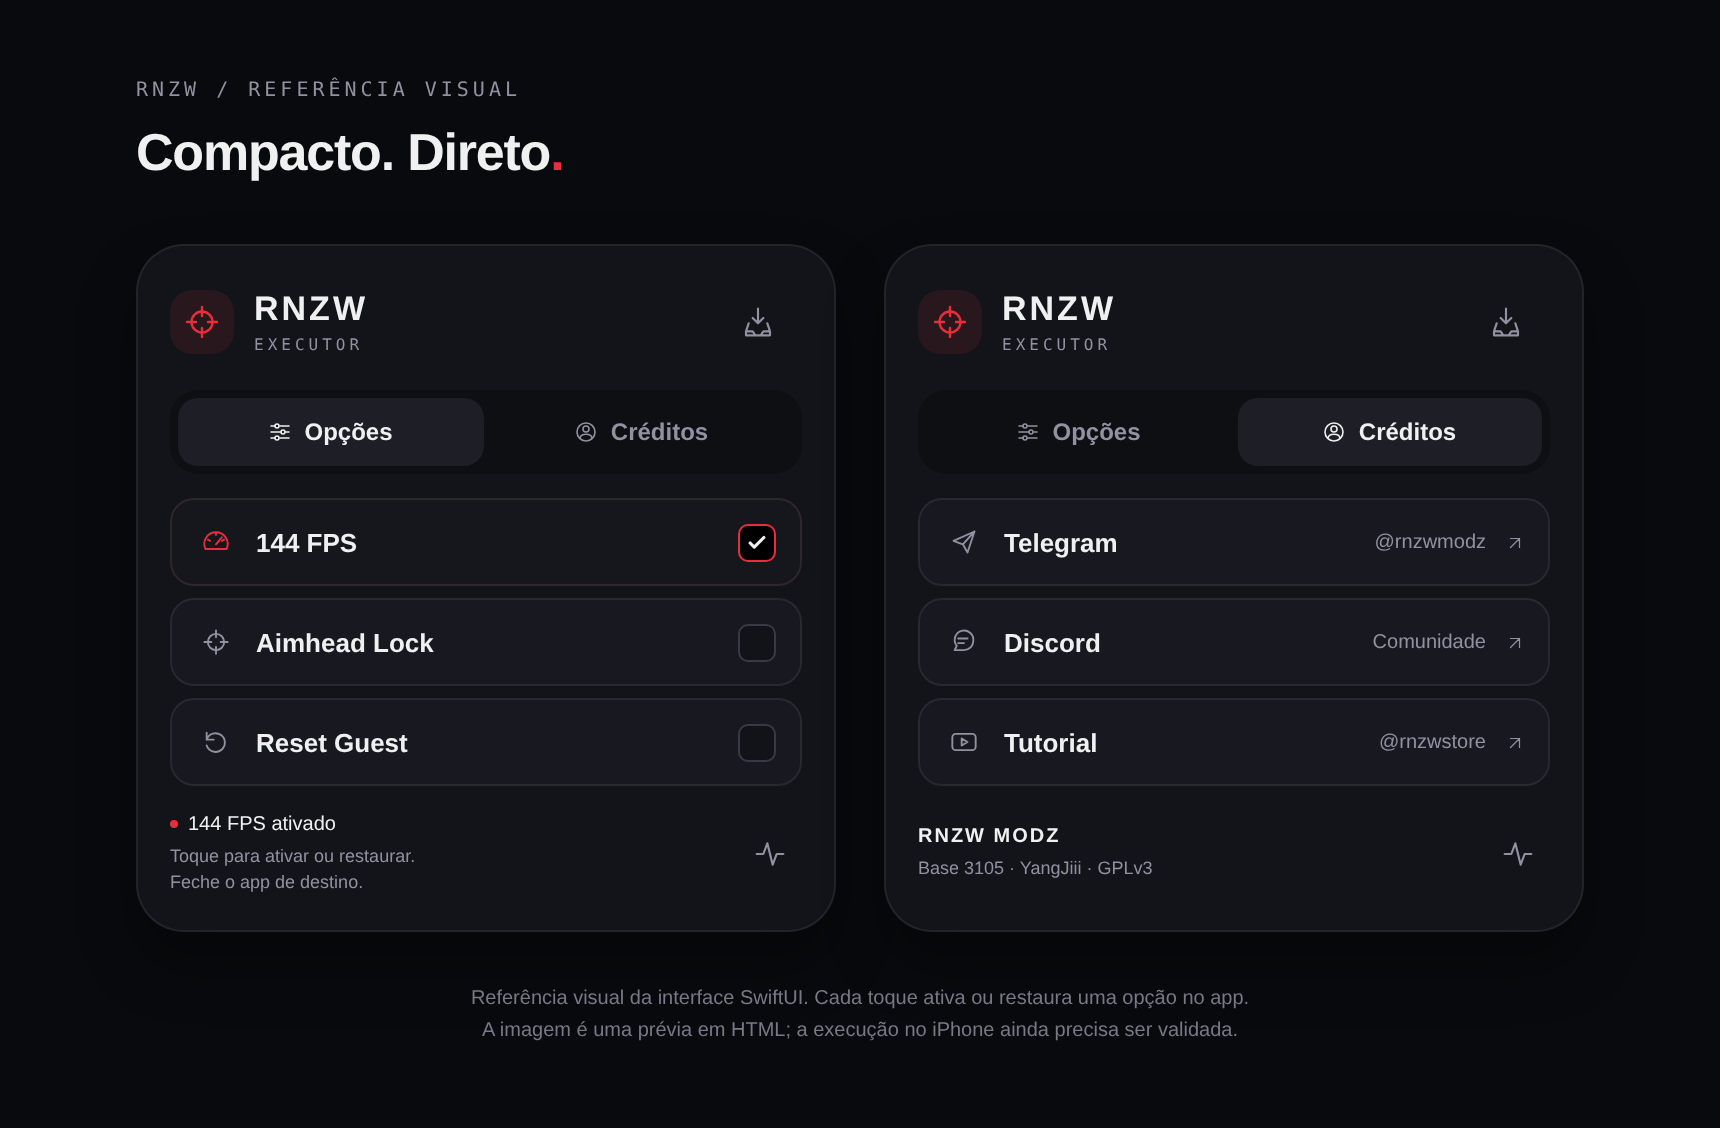
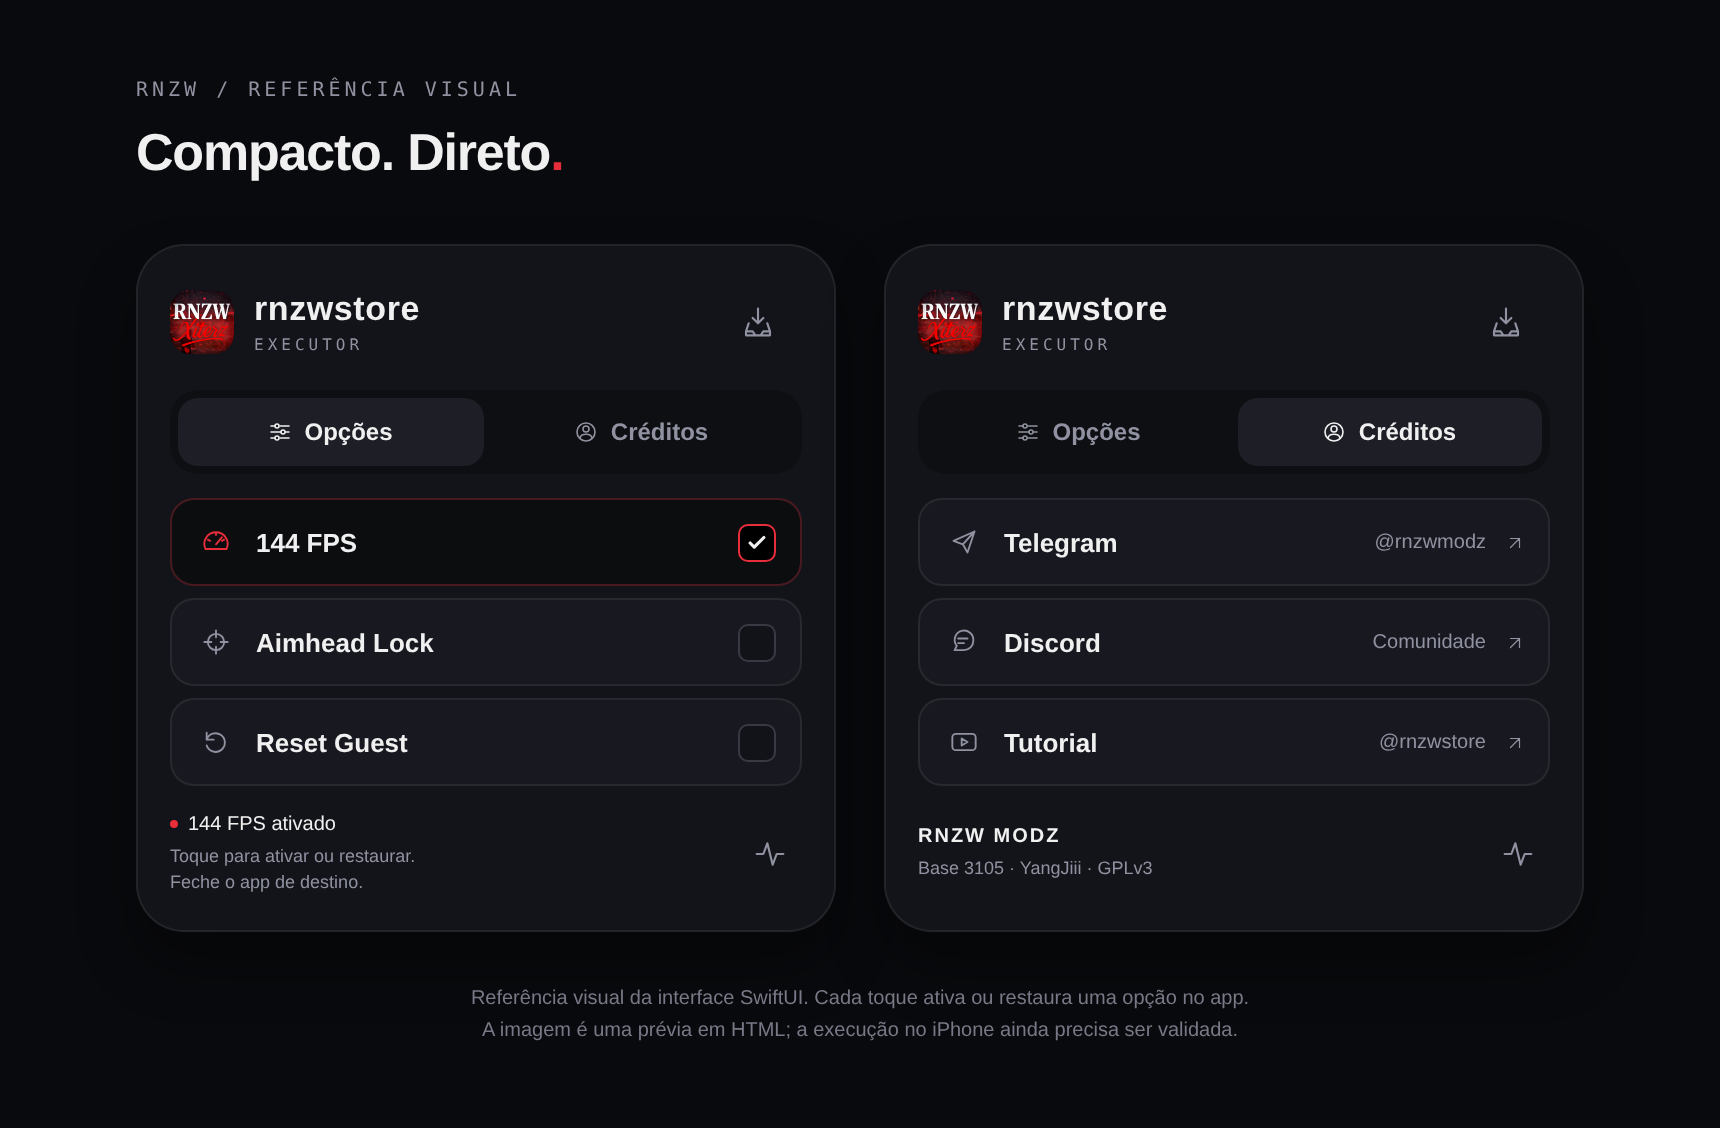
Document rnzwstore branding and successful build 9

Changed region(s): [[0.5238, 0.2482, 0.6779, 0.3103], [0.0924, 0.2482, 0.2465, 0.3103]]

diff --git a/docs/RNZW_PANEL.md b/docs/RNZW_PANEL.md
@@ -70,7 +70,7 @@ Para compilar em um Mac local, rode `bash scripts/build-ipa.sh`. O script verifi
 
 O IPA gerado dessa forma não está assinado. Para instalar e utilizar as funções da base, ainda é necessária uma assinatura compatível com os requisitos originais do 3105. Certificados, perfis e senhas não fazem parte do repositório nem dos artefatos.
 
-Build 8 concluído: [execução #2](https://github.com/rnzwconta9-a11y/xiter-gratis-psico/actions/runs/39026391287). Artefato: **RNZW-unsigned-IPA** . Faça login no GitHub para baixar o ZIP do artefato e extrair o IPA.
+Build 9 concluído: [execução #3](https://github.com/rnzwconta9-a11y/xiter-gratis-psico/actions/runs/39028660684). Artefato: **RNZW-unsigned-IPA**. Faça login no GitHub para baixar o ZIP do artefato e extrair o IPA.
 
 
 ## Correção dos toques no iOS 26 (build 8)
@@ -82,3 +82,12 @@ A seleção do caminho agora usa `supportsKernelExploit` para o método de kerne
 As opções respondem ao toque mesmo quando há um bloqueio de acesso: exibem o motivo em vez de ficarem silenciosamente desabilitadas. Identificador de app alterado na assinatura, sistema fora da lista, preparação em andamento e falha de acesso possuem mensagens próprias. As bordas decorativas também deixam os toques passarem para os controles.
 
 `python3 dev-tests/run-access-tests.py` compilou o AppState, o KernelExploit e as políticas reais com substitutos para as APIs nativas. Sete cenários passaram, incluindo o iOS 26.5.1 sem iniciar o método de kernel. O controlador passou em oito cenários, incluindo a resposta a um toque bloqueado sem gravar arquivos. Esses testes não validam o MHA-C2 no aparelho físico.
+
+
+## Identidade rnzwstore e aviso inicial (build 9)
+
+O nome exibido na tela inicial do iOS e no cabeçalho é **rnzwstore**. A arte RNZW/Xiterz enviada foi adaptada para um ícone iOS opaco de 1024 × 1024 e também aparece no cabeçalho e na abertura do painel. O identificador técnico e o executável da base foram preservados.
+
+Na primeira abertura, o app mostra o aviso: “Isso é um painel grátis. Caso queira a versão VIP, compre aqui.” O botão **Comprar VIP** abre https://discord.gg/a4QmpBuw33; **Continuar grátis** fecha o aviso. Os dois registram que o aviso foi lido. A preferência é independente do número da versão, portanto o aviso não se repete nas aberturas seguintes nem nas atualizações que preservem os dados do aplicativo. Uma instalação com os dados apagados começa novamente como primeira abertura.
+
+O aviso é apresentado dentro do app e não solicita permissão para notificações do sistema. A lógica de primeira abertura, a persistência após uma nova instância das preferências, a não repetição após uma mudança do marcador de onboarding e o URL do botão VIP foram verificados em Swift. O build também confere o nome exibido e o identificador no app compilado.

diff --git a/README.md b/README.md
@@ -2,7 +2,7 @@
 xit gratis
 
 
-## Painel RNZW
+## rnzwstore
 
 Painel iOS compacto em SwiftUI, com fundo grafite, cantos arredondados e dois menus no topo: **Opções** e **Créditos**. Um toque em 144 FPS, Aimhead Lock ou Reset Guest aplica o pacote; outro toque restaura os arquivos originais pelo motor 3105. Não há botão Executar nem seleção em lote.
 
@@ -10,9 +10,11 @@ Painel iOS compacto em SwiftUI, com fundo grafite, cantos arredondados e dois me
 - [Ver a prévia visual](docs/images/rnzw-panel-preview.png)
 - [Uso, pacotes e instruções de compilação](docs/RNZW_PANEL.md)
 - [Resultados da verificação](VALIDACAO.json)
-- [Baixar o IPA sem assinatura em Actions → Artifacts → RNZW-unsigned-IPA](https://github.com/rnzwconta9-a11y/xiter-gratis-psico/actions/runs/39026391287)
+- [Baixar o IPA sem assinatura em Actions → Artifacts → RNZW-unsigned-IPA](https://github.com/rnzwconta9-a11y/xiter-gratis-psico/actions/runs/39028660684)
 
 As cópias incluídas no painel estão preparadas para ativação direta, sem pedir senha; os pacotes enviados foram preservados em `SourcePackages/`. O quadrado reflete a aplicação ou restauração confirmada pelo motor. Oito cenários do controlador e sete de roteamento passaram em Swift com serviços nativos simulados. O build 8 corrige o bloqueio dos botões no iOS 26 causado pela exigência indevida do método de kernel. A prévia é uma referência visual em HTML. A compilação Release para arm64 passou no GitHub Actions e gerou um IPA sem assinatura; a assinatura e a execução no iPhone ainda precisam ser verificadas.
+
+O build 9 usa o nome **rnzwstore**, o novo ícone e um aviso de painel grátis exibido na primeira abertura, com acesso à versão VIP pelo Discord.
 
 Abra `ThreeOneOSFive.xcodeproj` no Xcode para compilar. Os requisitos de assinatura e compatibilidade da base continuam se aplicando.
 
